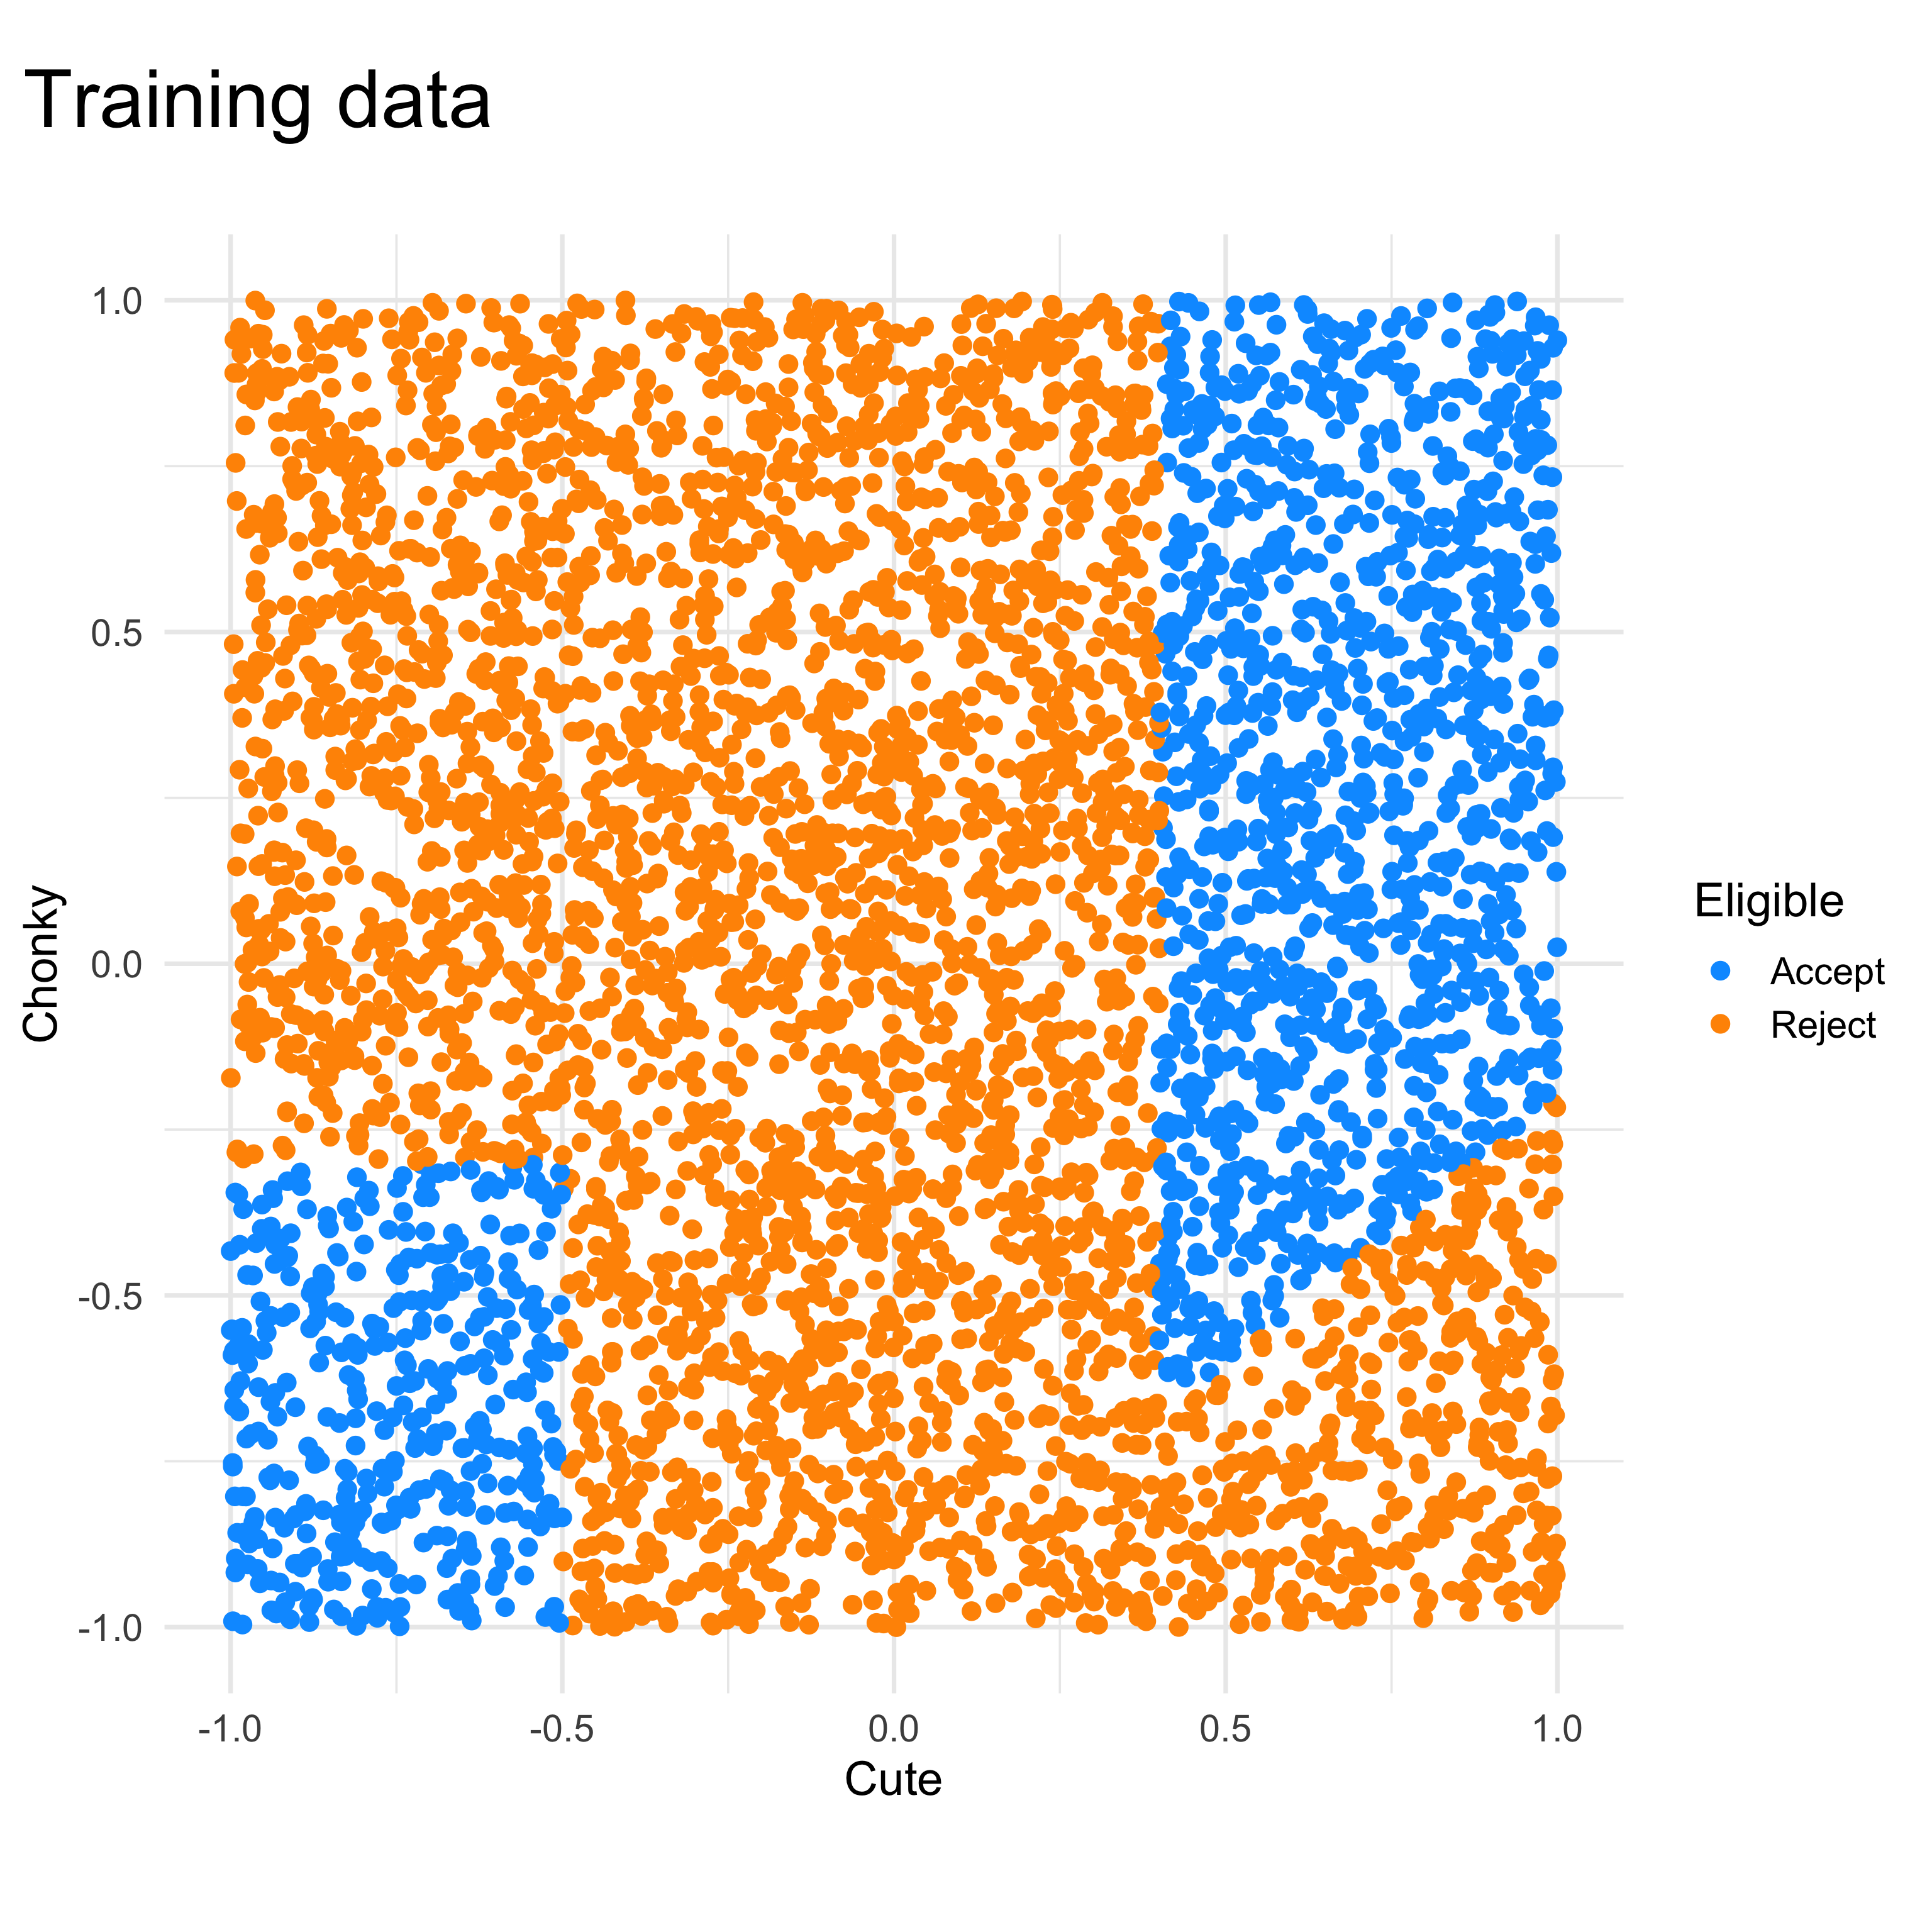
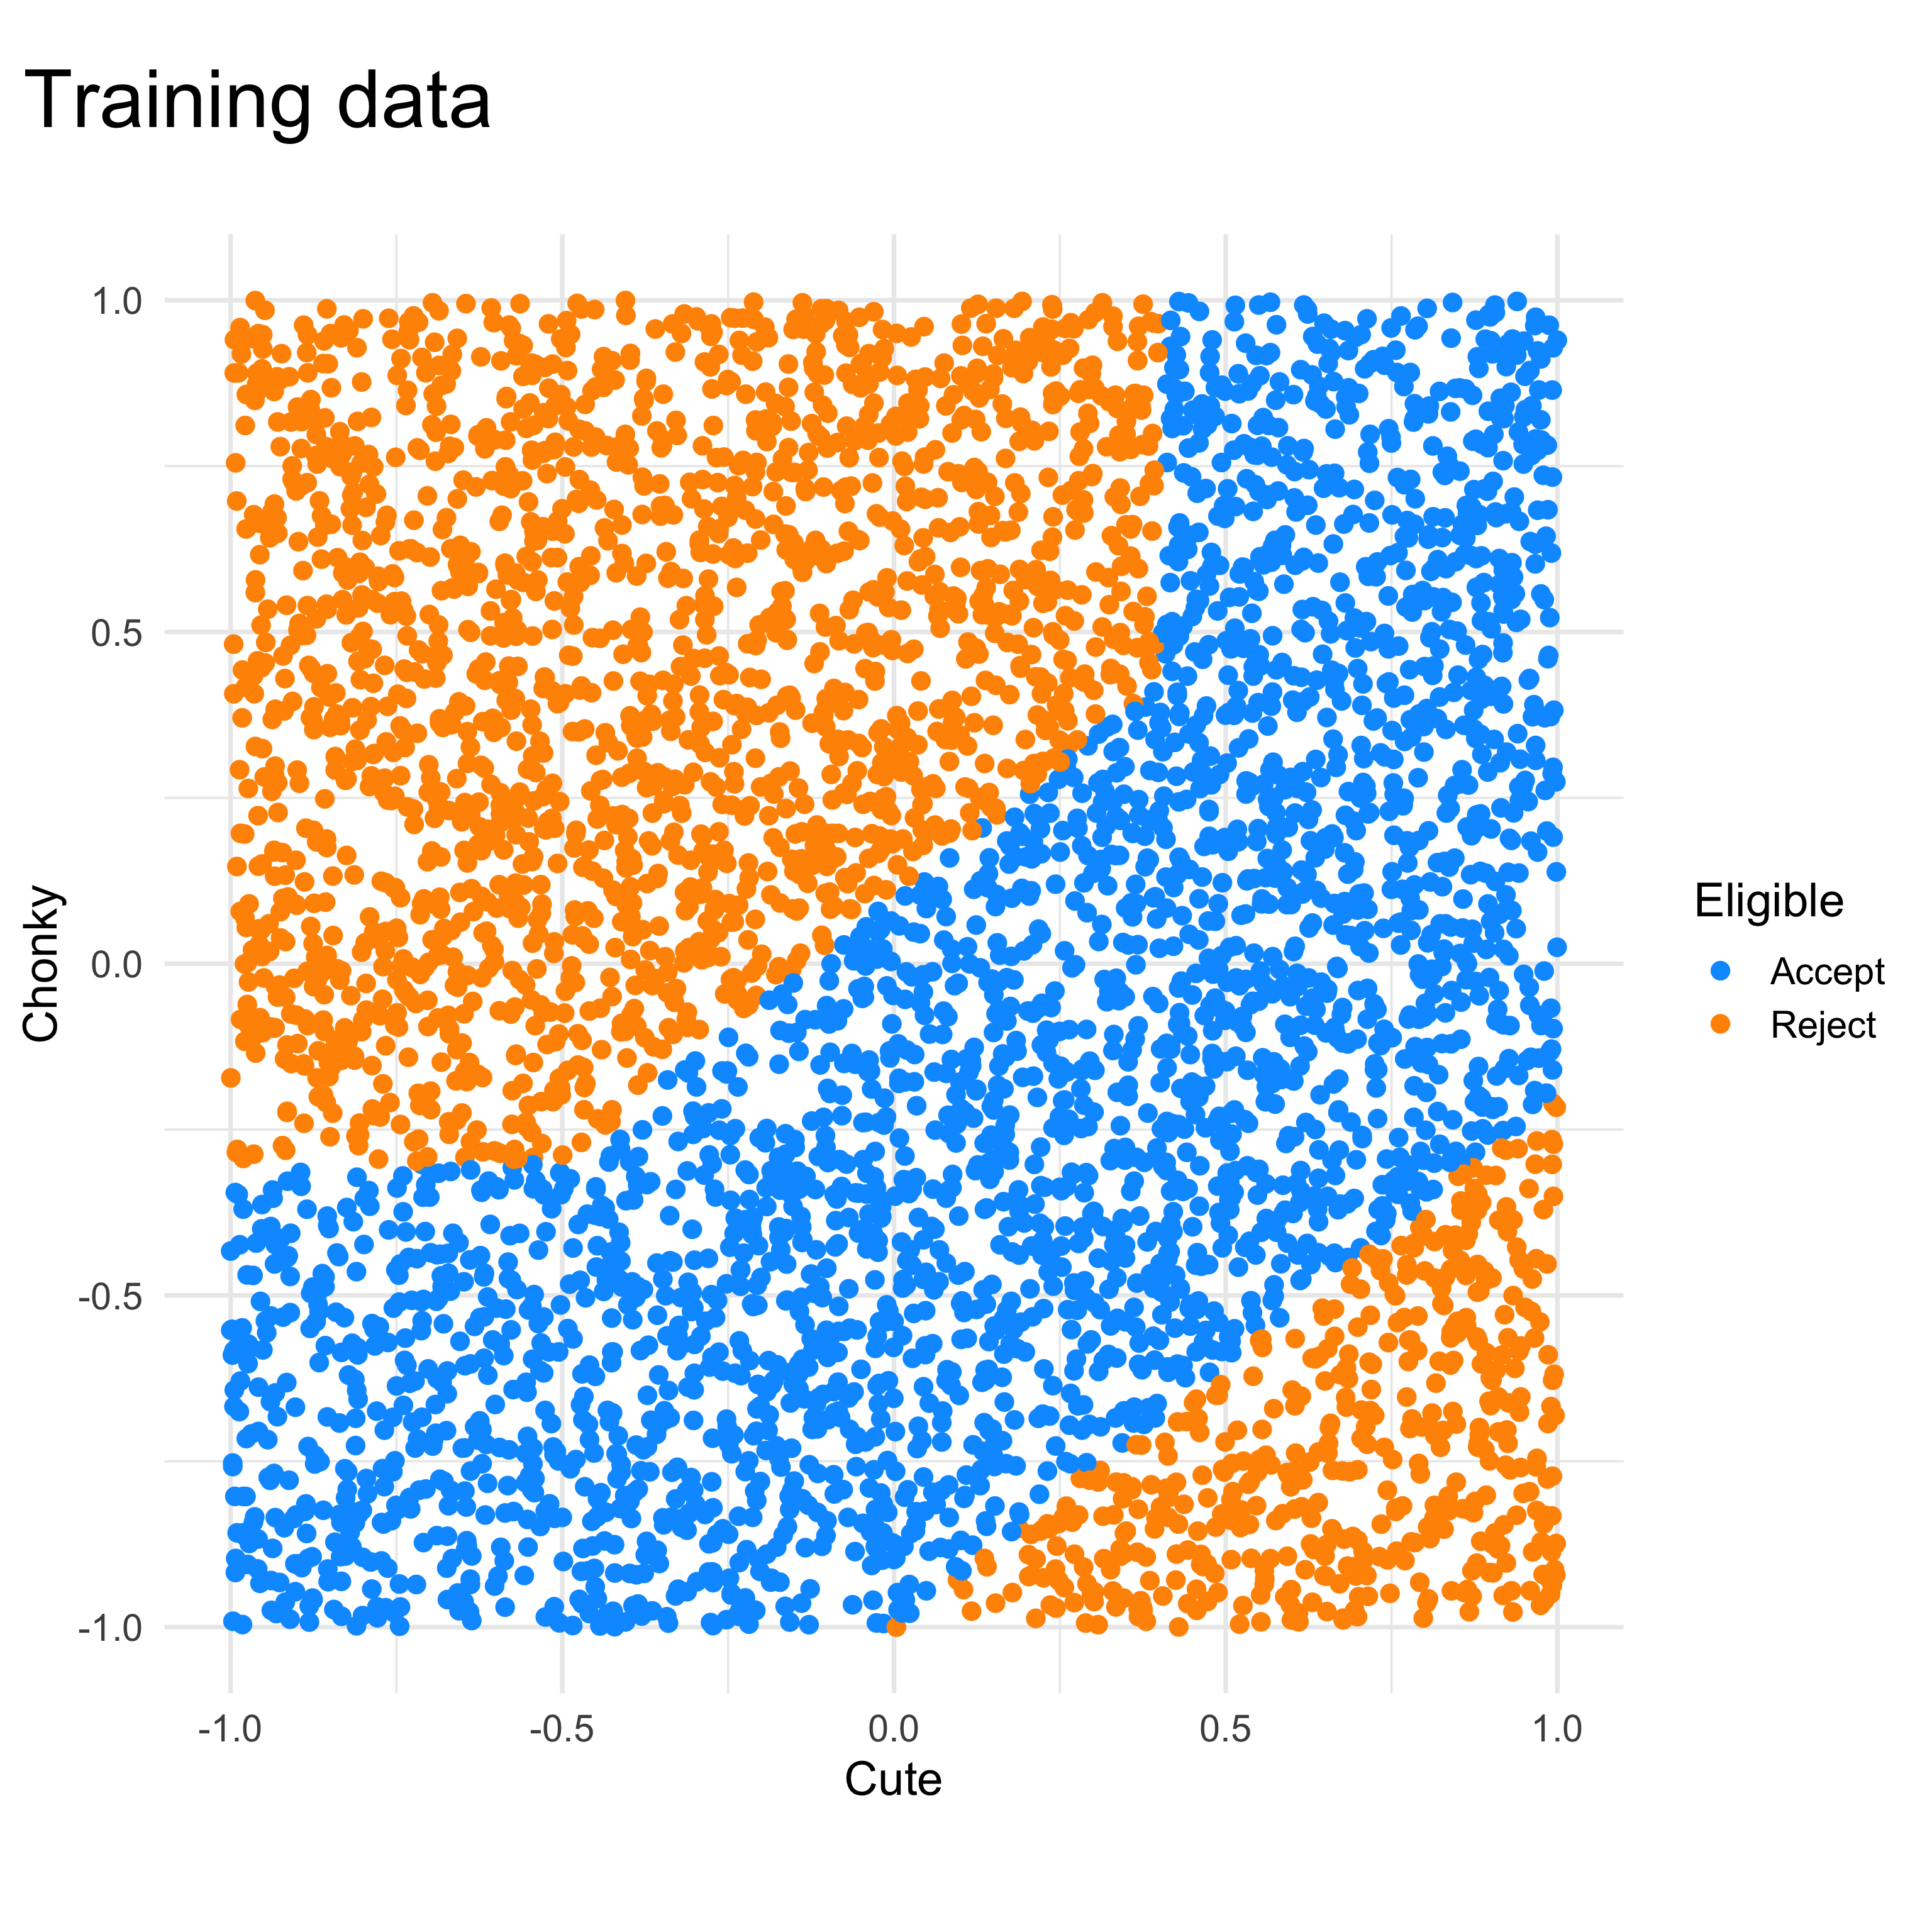
updates

Changed region(s): [[0.2812, 0.3438, 0.625, 0.8438]]

diff --git a/index.html b/index.html
@@ -95,7 +95,7 @@
     code span.vs { color: #20794d; } /* VerbatimString */
     code span.wa { color: #5e5e5e; font-style: italic; } /* Warning */
   </style>
-  <link rel="stylesheet" href="index_files/libs/revealjs/dist/theme/quarto-542ceba6fc6a69b02a3d82aa8bb7d34c.css">
+  <link rel="stylesheet" href="index_files/libs/revealjs/dist/theme/quarto-66cc5da8c89b07d65fc5635dd62b3ed8.css">
   <link href="index_files/libs/revealjs/plugin/quarto-line-highlight/line-highlight.css" rel="stylesheet">
   <link href="index_files/libs/revealjs/plugin/reveal-menu/menu.css" rel="stylesheet">
   <link href="index_files/libs/revealjs/plugin/reveal-menu/quarto-menu.css" rel="stylesheet">
@@ -207,6 +207,7 @@ Janith Wanniarachchi
 </section>
 <section id="hi-im-janith" class="slide level2">
 <h2>Hi I’m Janith</h2>
+<div class="center-my-slide">
 <ul>
 <li>I’m a PhD candidate at Monash University, Australia</li>
 <li>My research work is around making it easier to explain how machine learning models work.</li>
@@ -214,6 +215,7 @@ Janith Wanniarachchi
 </ul>
 <div class="fragment fade-in center">
 <p><img data-src="https://s3.amazonaws.com/theoatmeal-img/comics/wombats/photo.jpg" style="width:40.0%"></p>
+</div>
 </div>
 <!-- ## AI and Machine Learning is everywhere -->
 <!---->
@@ -242,21 +244,36 @@ Janith Wanniarachchi
 <h2>The problem</h2>
 <p>The dataset is a simple one for an intern,has two variables,</p>
 <ol type="1">
-<li>how cute the wombat is (<span class="math inline">\(x\)</span>)</li>
-<li>how chonky the wombat is (<span class="math inline">\(y\)</span>).</li>
+<li>How cute the wombat is (<span class="math inline">\(x\)</span>)</li>
+<li>How chonky the wombat is (<span class="math inline">\(y\)</span>).</li>
 </ol>
 
 <img data-src="index_files/figure-revealjs/unnamed-chunk-2-1.png" class="quarto-figure quarto-figure-center r-stretch" style="width:100.0%"></section>
 <section id="time-to-get-modeling" class="slide level2">
 <h2>Time to get modeling,</h2>
+<div class="columns">
+<div class="column">
 <p>You get around to making a model that works well, to double check you follow a model in data space visualisation like as follows</p>
-
-<img data-src="index_files/figure-revealjs/unnamed-chunk-3-1.png" class="quarto-figure quarto-figure-center r-stretch" style="width:100.0%"></section>
+</div><div class="column">
+<div class="cell" data-layout-align="center">
+<div class="cell-output-display">
+<div class="quarto-figure quarto-figure-center">
+<figure>
+<p><img data-src="index_files/figure-revealjs/unnamed-chunk-3-1.png" class="quarto-figure quarto-figure-center" style="width:100.0%"></p>
+</figure>
+</div>
+</div>
+</div>
+</div></div>
+</section>
 <section id="we-have-complaints" class="slide level2">
 <h2>We have complaints!</h2>
 <div class="columns">
 <div class="column" style="width:45%;">
-<p>Four wombats came up upset that their loans were rejected, and they asked what were was the important thing that we considered to deny their loan for a burrowing hole. (Was it their cuteness or was it their chonky-ness?)</p>
+<p>Four wombats came up upset that their loans were rejected, and they asked <strong>what was the important thing that we considered to deny their loan</strong> for a burrowing hole. (Was it their cuteness or was it their chonky-ness?)</p>
+<!-- :::{.callout-note} -->
+<!-- Fun fact: These are names of actual wombats in Australian Zoos, and Minibus is the name of the wombat that was Steve Irwin's favourite. -->
+<!-- ::: -->
 <p><img data-src="imgs/wombat-hello.png"></p>
 </div><div class="column" style="width:55%;">
 <div class="cell" data-layout-align="center">
@@ -305,7 +322,7 @@ Janith Wanniarachchi
 <table class="caption-top">
 <thead>
 <tr class="header">
-<th style="text-align: right;">wombat</th>
+<th style="text-align: left;">wombat</th>
 <th style="text-align: left;">lime</th>
 <th style="text-align: left;">SHAP</th>
 <th style="text-align: left;">Counterfactuals</th>
@@ -313,26 +330,26 @@ Janith Wanniarachchi
 </thead>
 <tbody>
 <tr class="odd">
-<td style="text-align: right;">20211</td>
-<td style="text-align: left;">x,y</td>
+<td style="text-align: left;">elle</td>
+<td style="text-align: left;">chonky</td>
 <td style="text-align: left;">cuteness</td>
-<td style="text-align: left;">cuteness</td>
+<td style="text-align: left;">chonky</td>
 </tr>
 <tr class="even">
-<td style="text-align: right;">27678</td>
-<td style="text-align: left;">x</td>
+<td style="text-align: left;">minibus</td>
 <td style="text-align: left;">cuteness</td>
-<td style="text-align: left;">cuteness</td>
+<td style="text-align: left;">chonky</td>
+<td style="text-align: left;">chonky</td>
 </tr>
 <tr class="odd">
-<td style="text-align: right;">28105</td>
-<td style="text-align: left;">x</td>
+<td style="text-align: left;">ringo</td>
 <td style="text-align: left;">cuteness</td>
+<td style="text-align: left;">chonky</td>
 <td style="text-align: left;">cuteness</td>
 </tr>
 <tr class="even">
-<td style="text-align: right;">33218</td>
-<td style="text-align: left;">y</td>
+<td style="text-align: left;">kato</td>
+<td style="text-align: left;">chonky</td>
 <td style="text-align: left;">cuteness</td>
 <td style="text-align: left;">chonky</td>
 </tr>
@@ -620,8 +637,8 @@ Figure&nbsp;4: Geometric representation of Anchors in two dimensions
 <p>Try the package out from <a href="https:://github.com/janithwanni/kultarr">https://github.com/janithwanni/kultarr</a></p>
 </div></div>
 </section>
-<section id="the-proposed-geometric-represenations" class="slide level2">
-<h2>The proposed geometric represenations,</h2>
+<section id="the-proposed-geometric-representations" class="slide level2">
+<h2>The proposed geometric representations,</h2>
 <p><br></p>
 <div style="display:flex; flex-direction: column; justify-content: center; align-items: center; width: 100%; font-size: 2.5rem; font-weight: bold; gap: 2rem">
   <div>
@@ -658,14 +675,26 @@ Figure&nbsp;4: Geometric representation of Anchors in two dimensions
   </div>
 </div>
 </section>
-<section id="in-conclusion" class="slide level2">
-<h2>In conclusion,</h2>
-<blockquote>
-<p>My key take-away message is: Visualsing XAI methods requires us to look at all parts of the pipeline.</p>
-</blockquote>
-<blockquote>
-<p>We hope you that you get to use our proposed ideas and packages in the future when you are trying to explain models.</p>
-</blockquote>
+<section id="what-did-we-learn" class="slide level2">
+<h2>What did we learn?</h2>
+<p>Understanding the prediction requires us to understand all the parts that come before it</p>
+<div class="fragment fade-in">
+<p>This extends to our everyday interactions with AI as well!</p>
+</div>
+<p>When it comes to XAI explanations,</p>
+<p>we need to use the geometric representations along with putting the model in the data space to look at the explanation in place with the data and the model’s prediction.</p>
+</section>
+<section id="but-what-happened-to-the-wombats" class="slide level2">
+<h2>But what happened to the wombats?</h2>
+<p>Explaining to the wombats what were the reasons for their rejection requires us to look at the visuals individually to understand</p>
+<ol type="1">
+<li class="fragment">which part of the model is being explained?</li>
+<li class="fragment">is the xai method that you are using appropriate to answer the question?</li>
+</ol>
+<p>How exactly that should be done will be a future story!</p>
+<div class="fragment fade-in">
+<p>Which I should be finishing as part of my PhD</p>
+</div>
 
 </section>
     </div>

diff --git a/user_theme.scss b/user_theme.scss
@@ -14,6 +14,7 @@ $body-font-color: $black;
 $font-family-sans-serif: $base-font;
 $presentation-heading-font: $heading-font;
 $presentation-heading-color: $black;
+$heading-letter-spacing: 0.001em;
 
 .slide-menu-button {
   display: none;
@@ -49,6 +50,19 @@ $presentation-heading-color: $black;
 .reveal blockquote {
   color: darken($orange, 10%) !important;
   font-weight: bold !important;
+}
+
+strong {
+  color: $orange;
+}
+
+reveal h1,
+.reveal h2,
+.reveal h3,
+.reveal h4,
+.reveal h5,
+.reveal h6 {
+  letter-spacing: $heading-letter-spacing !important;
 }
 
 /*-- scss:rules --*/